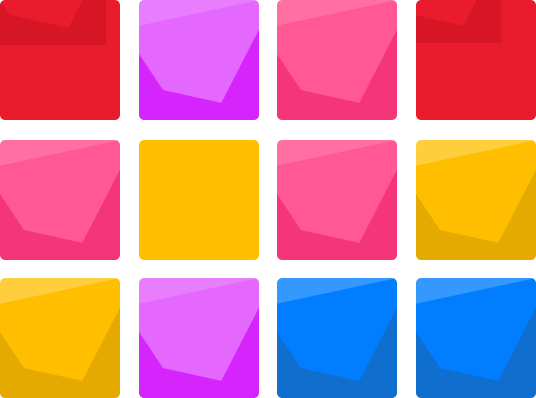
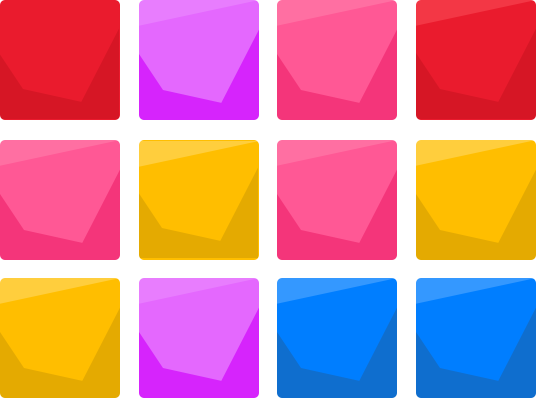
update

Changed region(s): [[0.2388, 0.4221, 0.5075, 0.6633], [0.2388, 0.3317, 0.4776, 0.4221], [0.7761, 0.0, 0.9851, 0.0603]]

diff --git a/weapp/termite/static/v4/css/app_widget.css b/weapp/termite/static/v4/css/app_widget.css
@@ -335,7 +335,7 @@ p.wui-i-start_time,p.wui-i-end_time{
 .wui-lotterydescription>.wui-i-body .xui-lottery-unit{
 	background-color: transparent;
 	background-image: url("/termite_static/img/component/lottery/roulette_cube.png");
-	background-size: 410% 410%;
+	background-size: 277px auto;
 	height: 60px;
 	width:60px;
 	text-align: center;
@@ -352,37 +352,37 @@ p.wui-i-start_time,p.wui-i-end_time{
 	background-position: 0 0;
 }
 .xa-lottery-unit-1{
-	background-position: -62px 0;
+	background-position: -72px 0;
 }
 .xa-lottery-unit-2{
-	background-position: -124px 0;
+	background-position: -143px 0;
 }
 .xa-lottery-unit-3{
-	background-position: -186px 0;
+	background-position: -215px -72px;
 }
 .xa-lottery-unit-11{
-	background-position: 0 -63px;
+	background-position: -143px 63px;
 }
 .xa-lottery-unit-4{
-	background-position: -186px -62px;
+	background-position: -143px 63px;
 }
 .xa-lottery-unit-5{
-	background-position: -186px -127px;
+	background-position: -143px -72px;
 }
 .xa-lottery-unit-6{
-	background-position: -186px -189px;
+	background-position: 0 -143px;
 }
 .xa-lottery-unit-7{
-	background-position: -124px -189px;
+	background-position: 1px -206px;
 }
 .xa-lottery-unit-8{
-	background-position: -62px -189px;
+	background-position: -72px 0;
 }
 .xa-lottery-unit-9{
-	background-position: 0 -190px;
+	background-position: -143px -72px;
 }
 .xa-lottery-unit-10{
-	background-position: 0 -126px;
+	background-position: 0 -143px;
 }
 .xa-lottery-go{
 	text-align: center;

diff --git a/weapp/termite/static/termite_js/app/component/appkit/lotterydescription/lotterydescription.html b/weapp/termite/static/termite_js/app/component/appkit/lotterydescription/lotterydescription.html
@@ -29,7 +29,7 @@
             <div class="xui-circle xa-circle xa-circle-unit-14"></div>
             <div class="xui-circle xa-circle xa-circle-unit-15"></div>
 
-            <table>
+            <table style="border-collapse: separate; border-spacing: 2px;">
                 <tr>
                     <td class="xui-lottery-unit xa-lottery-unit xa-lottery-unit-0 xa-lottery-first">
                         {% if component.components.0.model.image %}<img style='height:50px;width:50px;vertical-align:middle;' src="{{ component.components.0.model.image }}">{% else %}<b>一等奖</b>{% endif %}</td>
